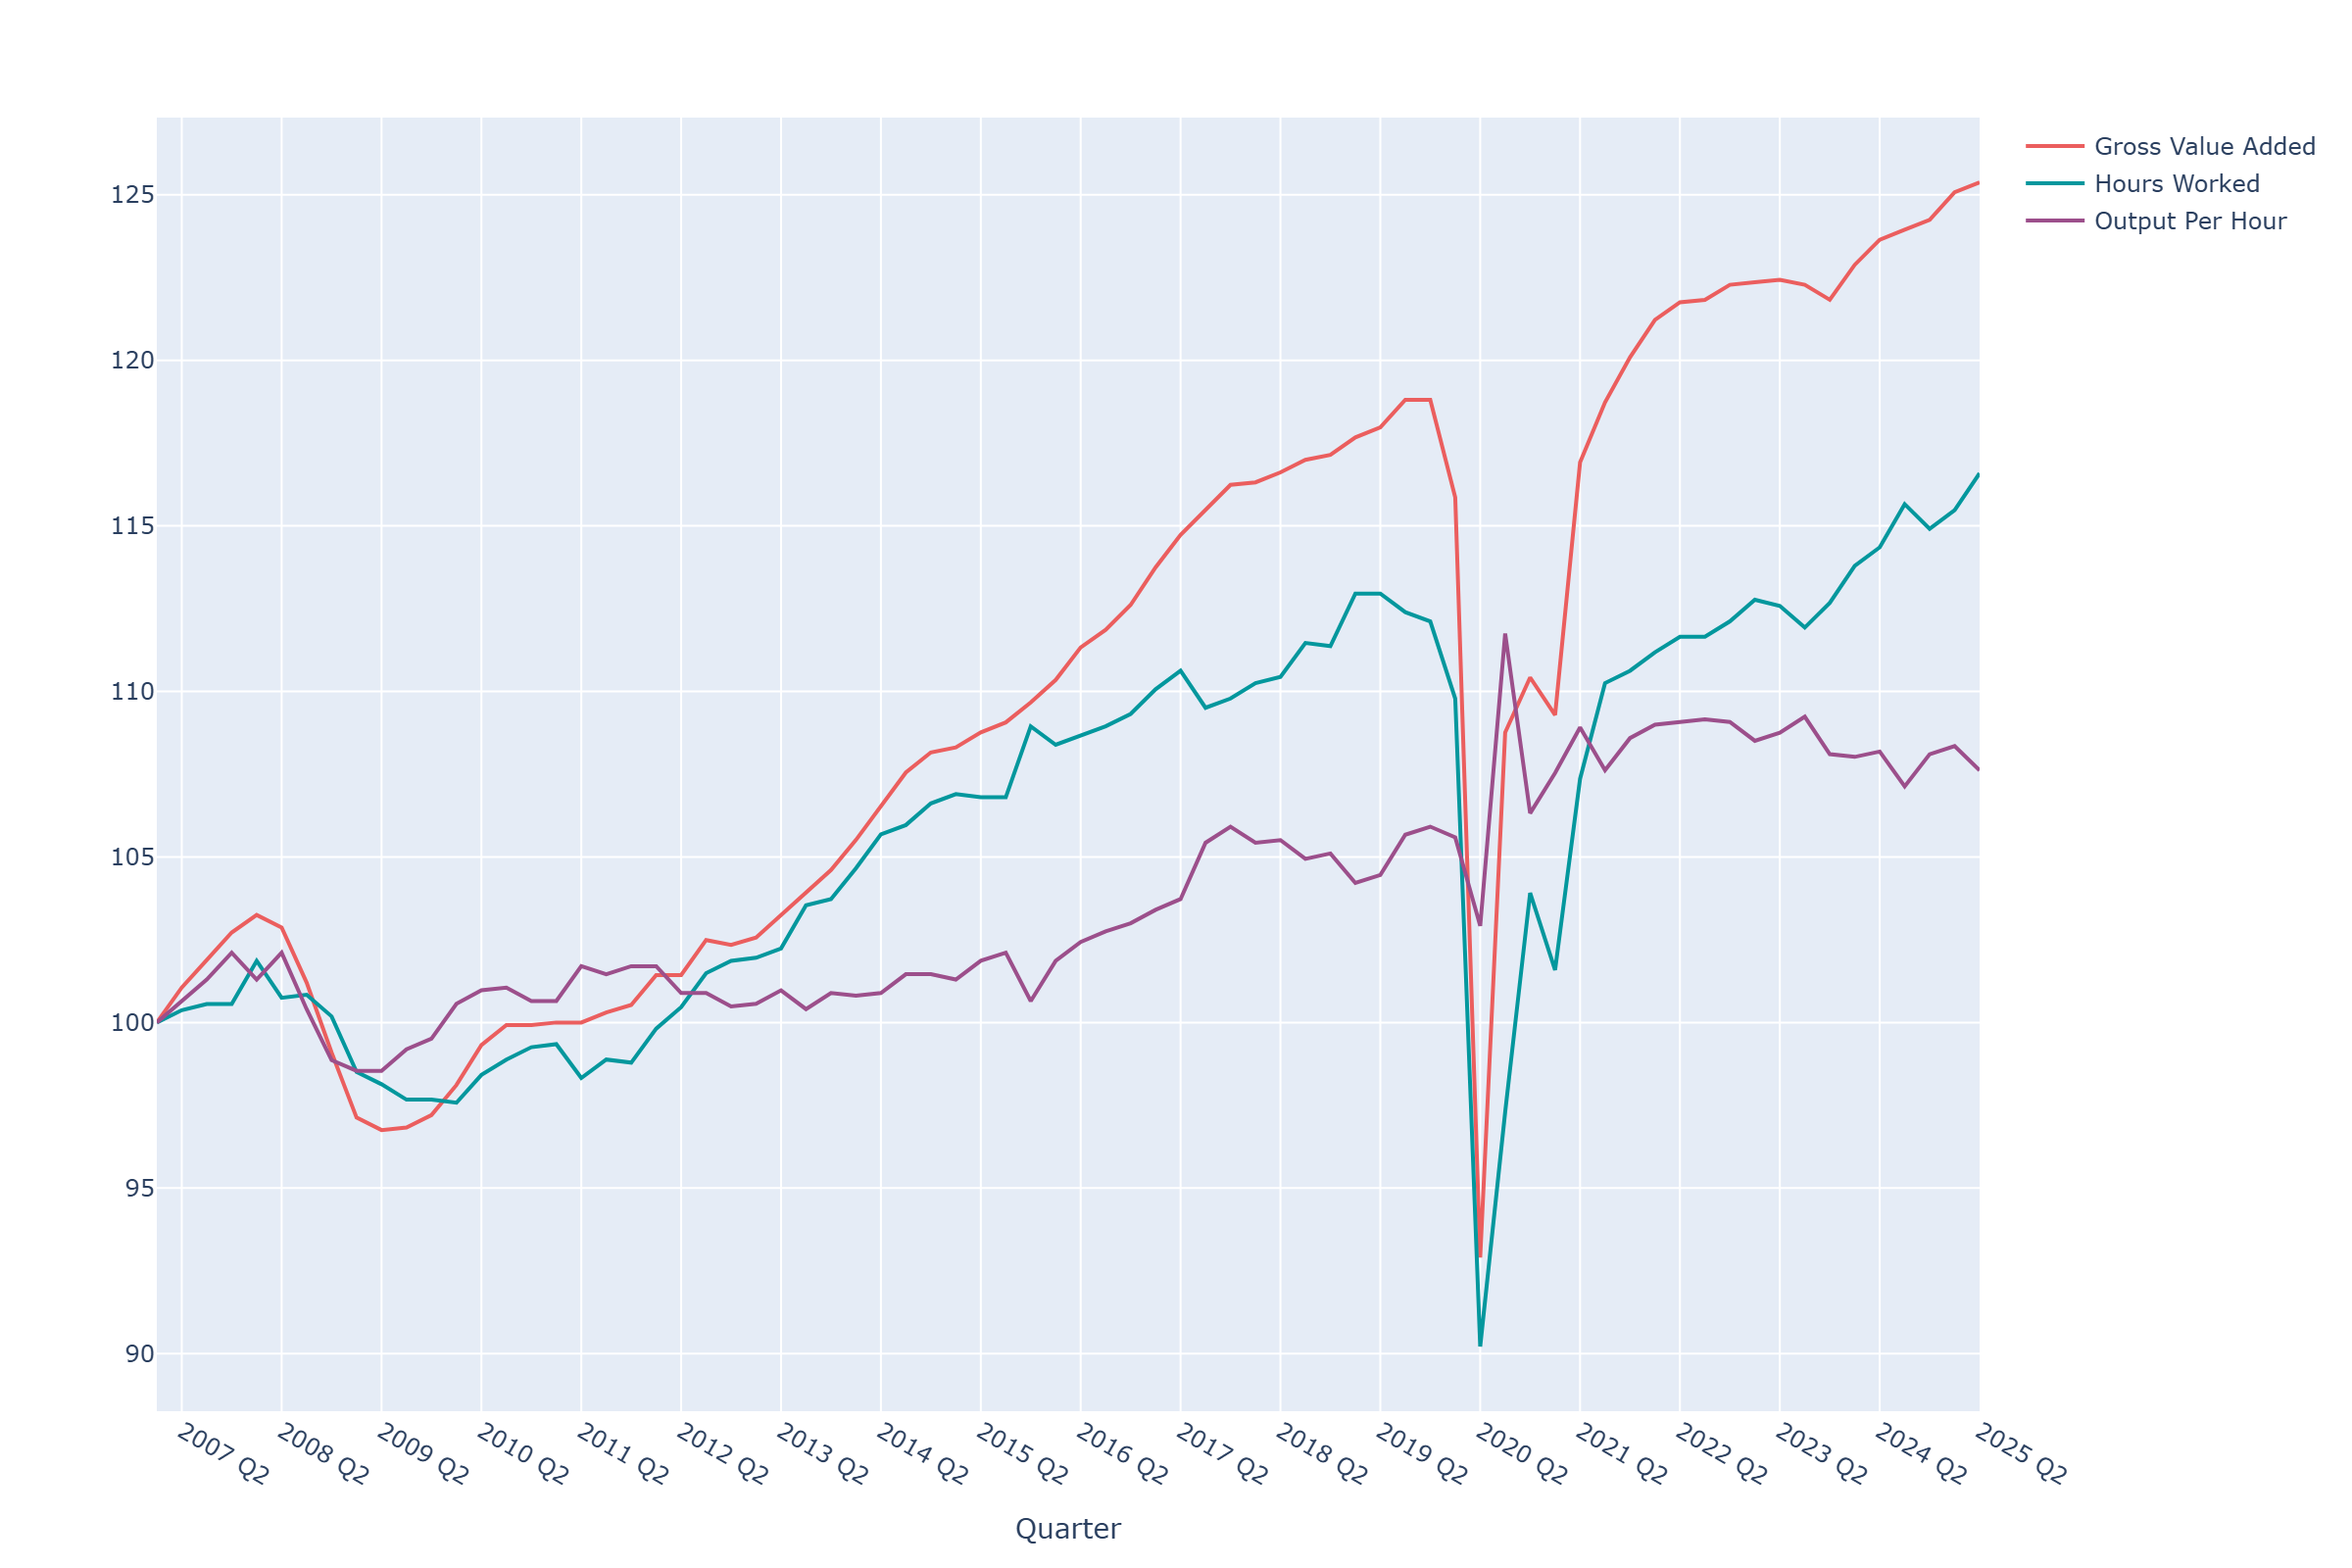
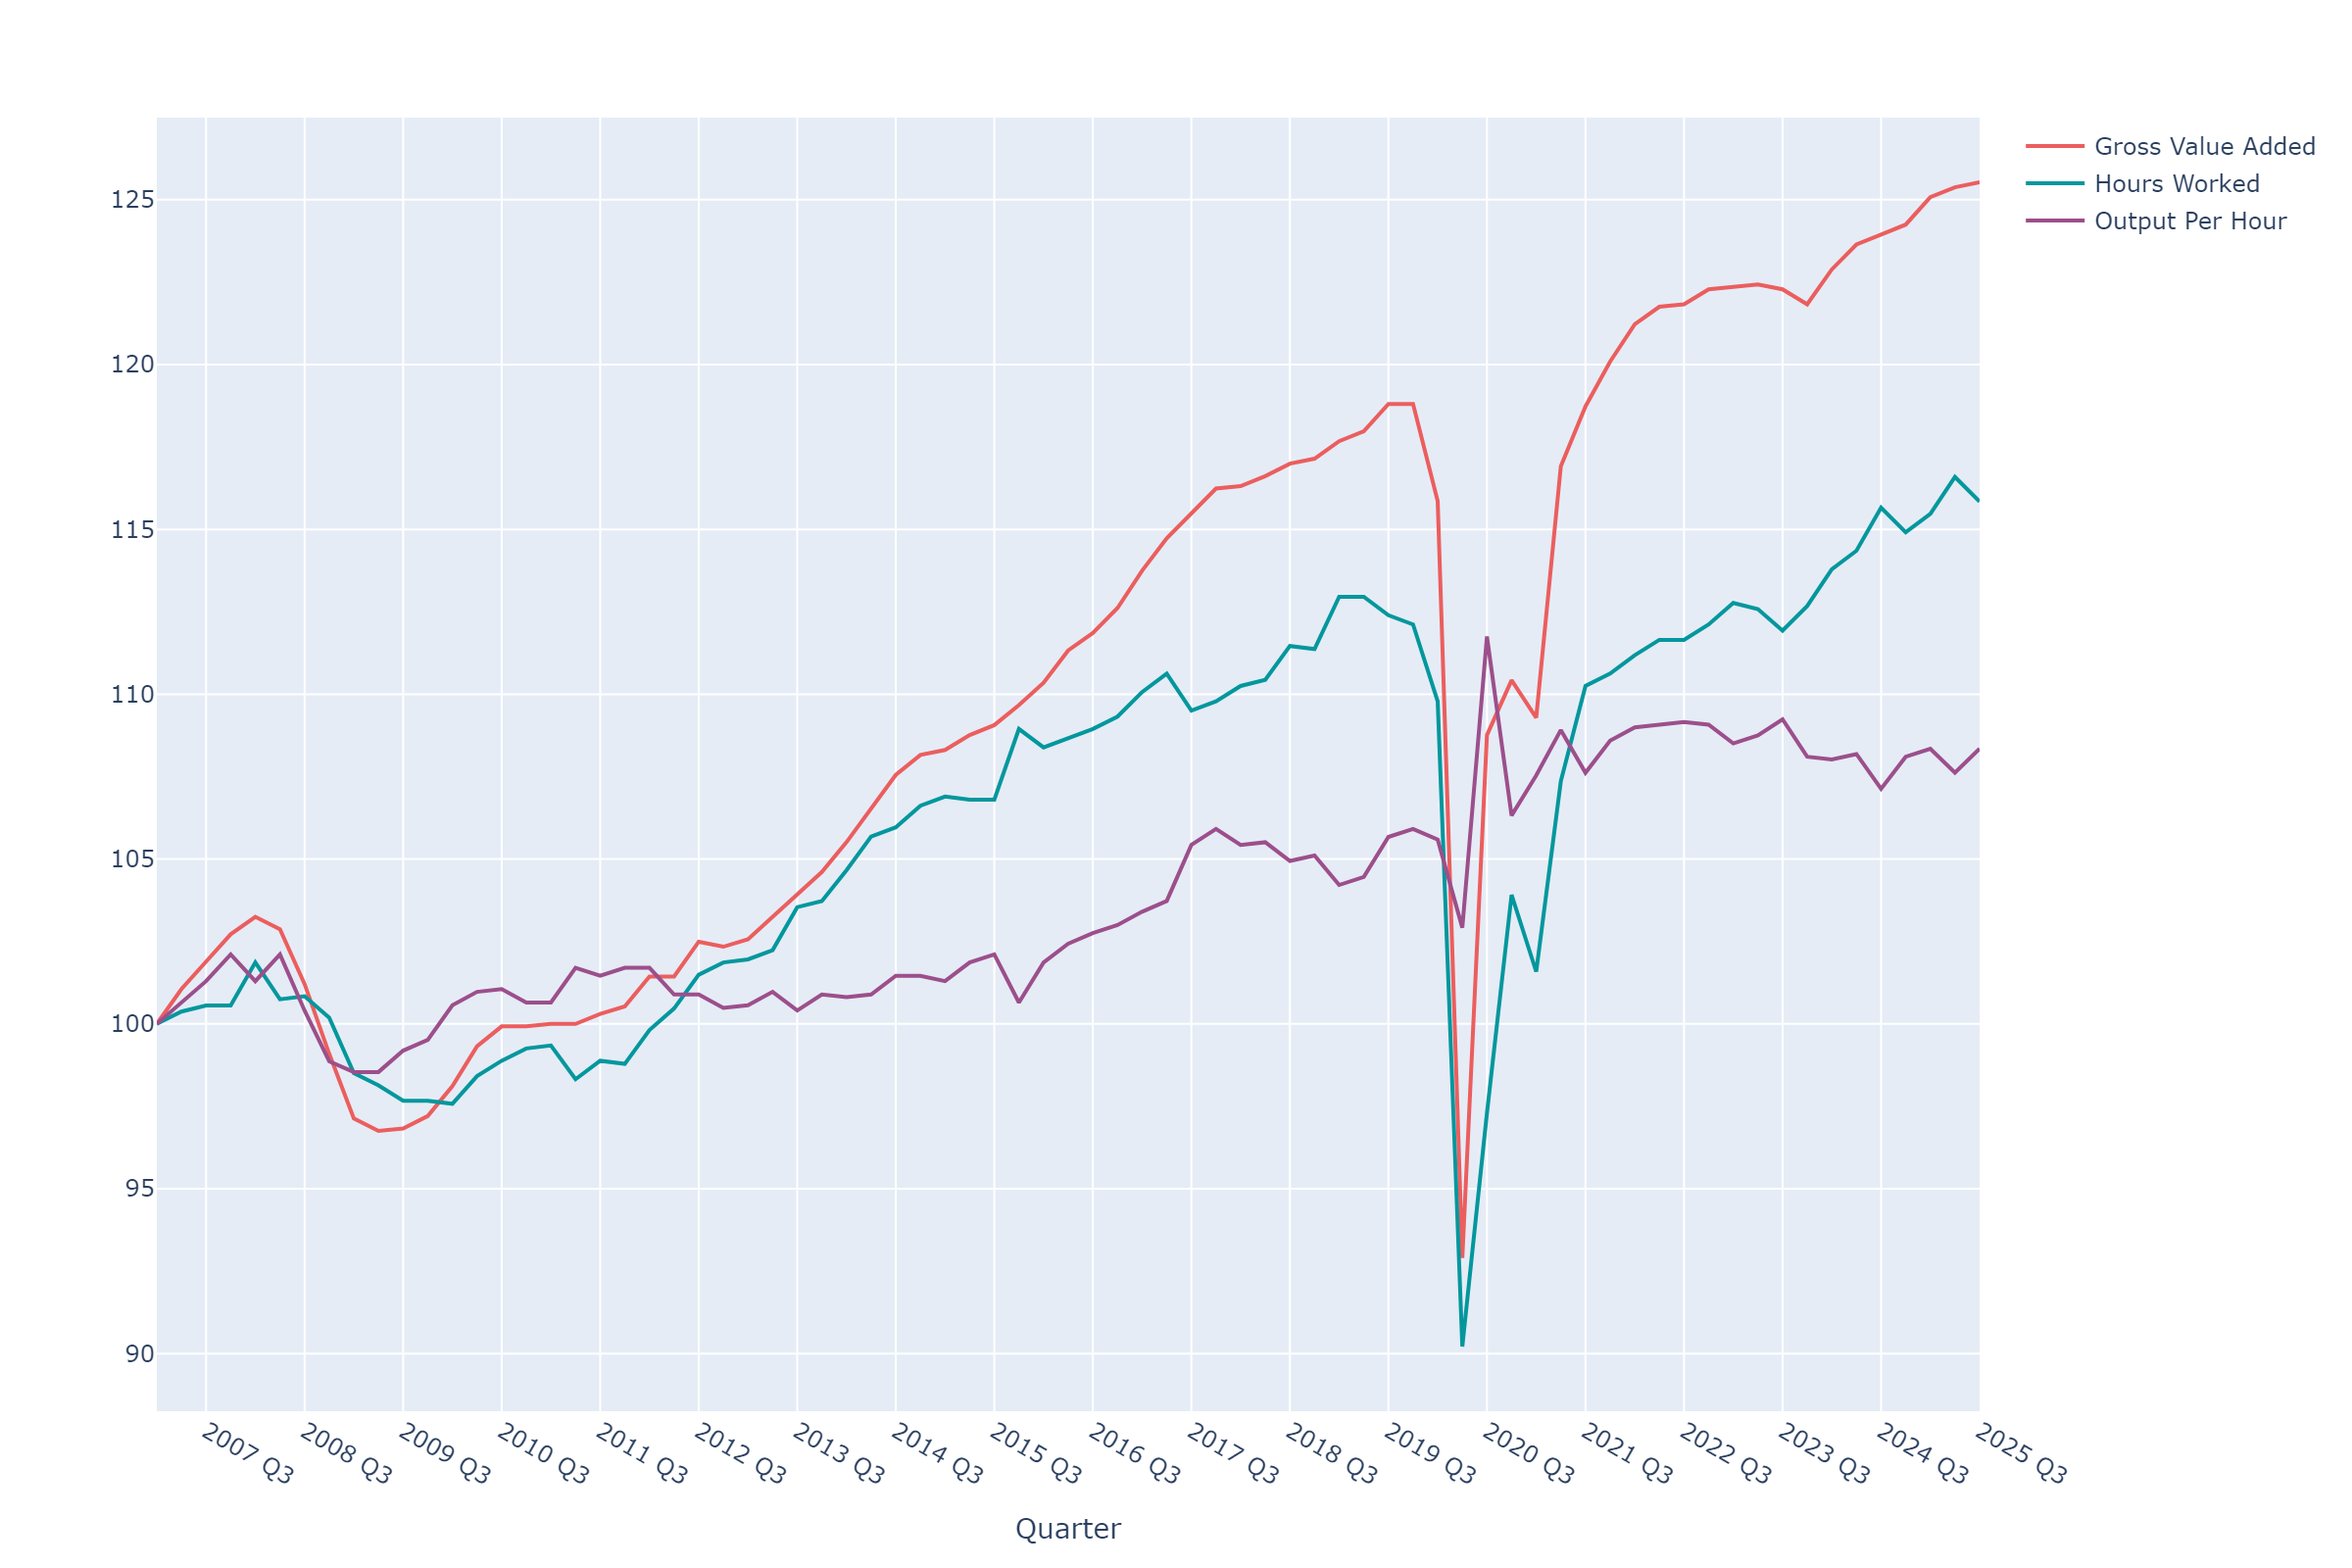
Updated charts

diff --git a/scripts/Flash_Estimate_Processing_20252802.py b/scripts/Flash_Estimate_Processing_20252802.py
@@ -54,7 +54,7 @@ def line_graph(data, year, title, yAxisTitle, legendTitle):
         labels={"value": f"{yAxisTitle}", "variable": f"{legendTitle}"},
         color_discrete_sequence=TPI_colours)
 
-        tickvals = [q for q in data['Quarter'] if q.endswith("Q2")]
+        tickvals = [q for q in data['Quarter'] if q.endswith("Q3")]
 
         fig.update_xaxes(tickvals=tickvals)
 
@@ -361,7 +361,7 @@ preCovidOPW = preCovidOPW[(preCovidOPW['Quarter'] >= 2014.75) & (preCovidOPW['Qu
 preCovidOPW['Quarter'] = preCovidOPW['Quarter'].apply(numeric_to_quarter)
 
 postCovidOPW = OPW_Comparison.copy()
-postCovidOPW = postCovidOPW[(postCovidOPW['Quarter'] >= 2021.25) & (postCovidOPW['Quarter'] <= 2025.25)]
+postCovidOPW = postCovidOPW[(postCovidOPW['Quarter'] >= 2021.25) & (postCovidOPW['Quarter'] <= 2025.5)]
 postCovidOPW['Quarter'] = postCovidOPW['Quarter'].apply(numeric_to_quarter)
 
 fig = double_qoq(preCovidOPW, postCovidOPW, "", "legend", "Output per worker pre-COVID", "Output per worker post-COVID")
@@ -377,7 +377,7 @@ preCovidOPH = preCovidOPH[(preCovidOPH['Quarter'] >= 2014.75) & (preCovidOPH['Qu
 preCovidOPH['Quarter'] = preCovidOPH['Quarter'].apply(numeric_to_quarter)
 
 postCovidOPH = OPH_Comparison.copy()
-postCovidOPH = postCovidOPH[(postCovidOPH['Quarter'] >= 2021) & (postCovidOPH['Quarter'] <= 2025.25)]
+postCovidOPH = postCovidOPH[(postCovidOPH['Quarter'] >= 2021.25) & (postCovidOPH['Quarter'] <= 2025.5)]
 postCovidOPH['Quarter'] = postCovidOPH['Quarter'].apply(numeric_to_quarter)
 
 fig = double_qoq(preCovidOPH, postCovidOPH, "", "legend", "Output per hour worked pre-COVID", "Output per hour worked post-COVID")
@@ -396,7 +396,7 @@ base_value = Flash_Estimate_OPH.loc[Flash_Estimate_OPH["Quarter"] == "2007 Q1", 
 Flash_Estimate_OPH["Output Per Hour"] = (Flash_Estimate_OPH["Output Per Hour"] / base_value) * 100
 
 Flash_Estimate_OPH["Quarter"] = Flash_Estimate_OPH["Quarter"].apply(quarter_to_numeric)
-Flash_Estimate_OPH = Flash_Estimate_OPH[(Flash_Estimate_OPH['Quarter'] >= 2007) & (Flash_Estimate_OPH['Quarter'] <= 2025.25)]
+Flash_Estimate_OPH = Flash_Estimate_OPH[(Flash_Estimate_OPH['Quarter'] >= 2007) & (Flash_Estimate_OPH['Quarter'] <= 2025.5)]
 Flash_Estimate_OPH["Quarter"] = Flash_Estimate_OPH["Quarter"].apply(numeric_to_quarter)
 fig = line_graph(Flash_Estimate_OPH, 2007, "", "", "")
 #fig.show()
@@ -412,7 +412,7 @@ fig = px.bar(UK_GDP, x='Quarter', y='GDP', color_discrete_sequence=[TPI_One])
 fig.update_traces(
     hovertemplate="%{x} GDP growth: %{y}%"
 )
-fig.show()
+#fig.show()
 fig.write_image("../out/visualisations/Figure 7 - UK Quarterly GDP.png", width=1200, height=600, scale=2)
 
 # Figure 8
